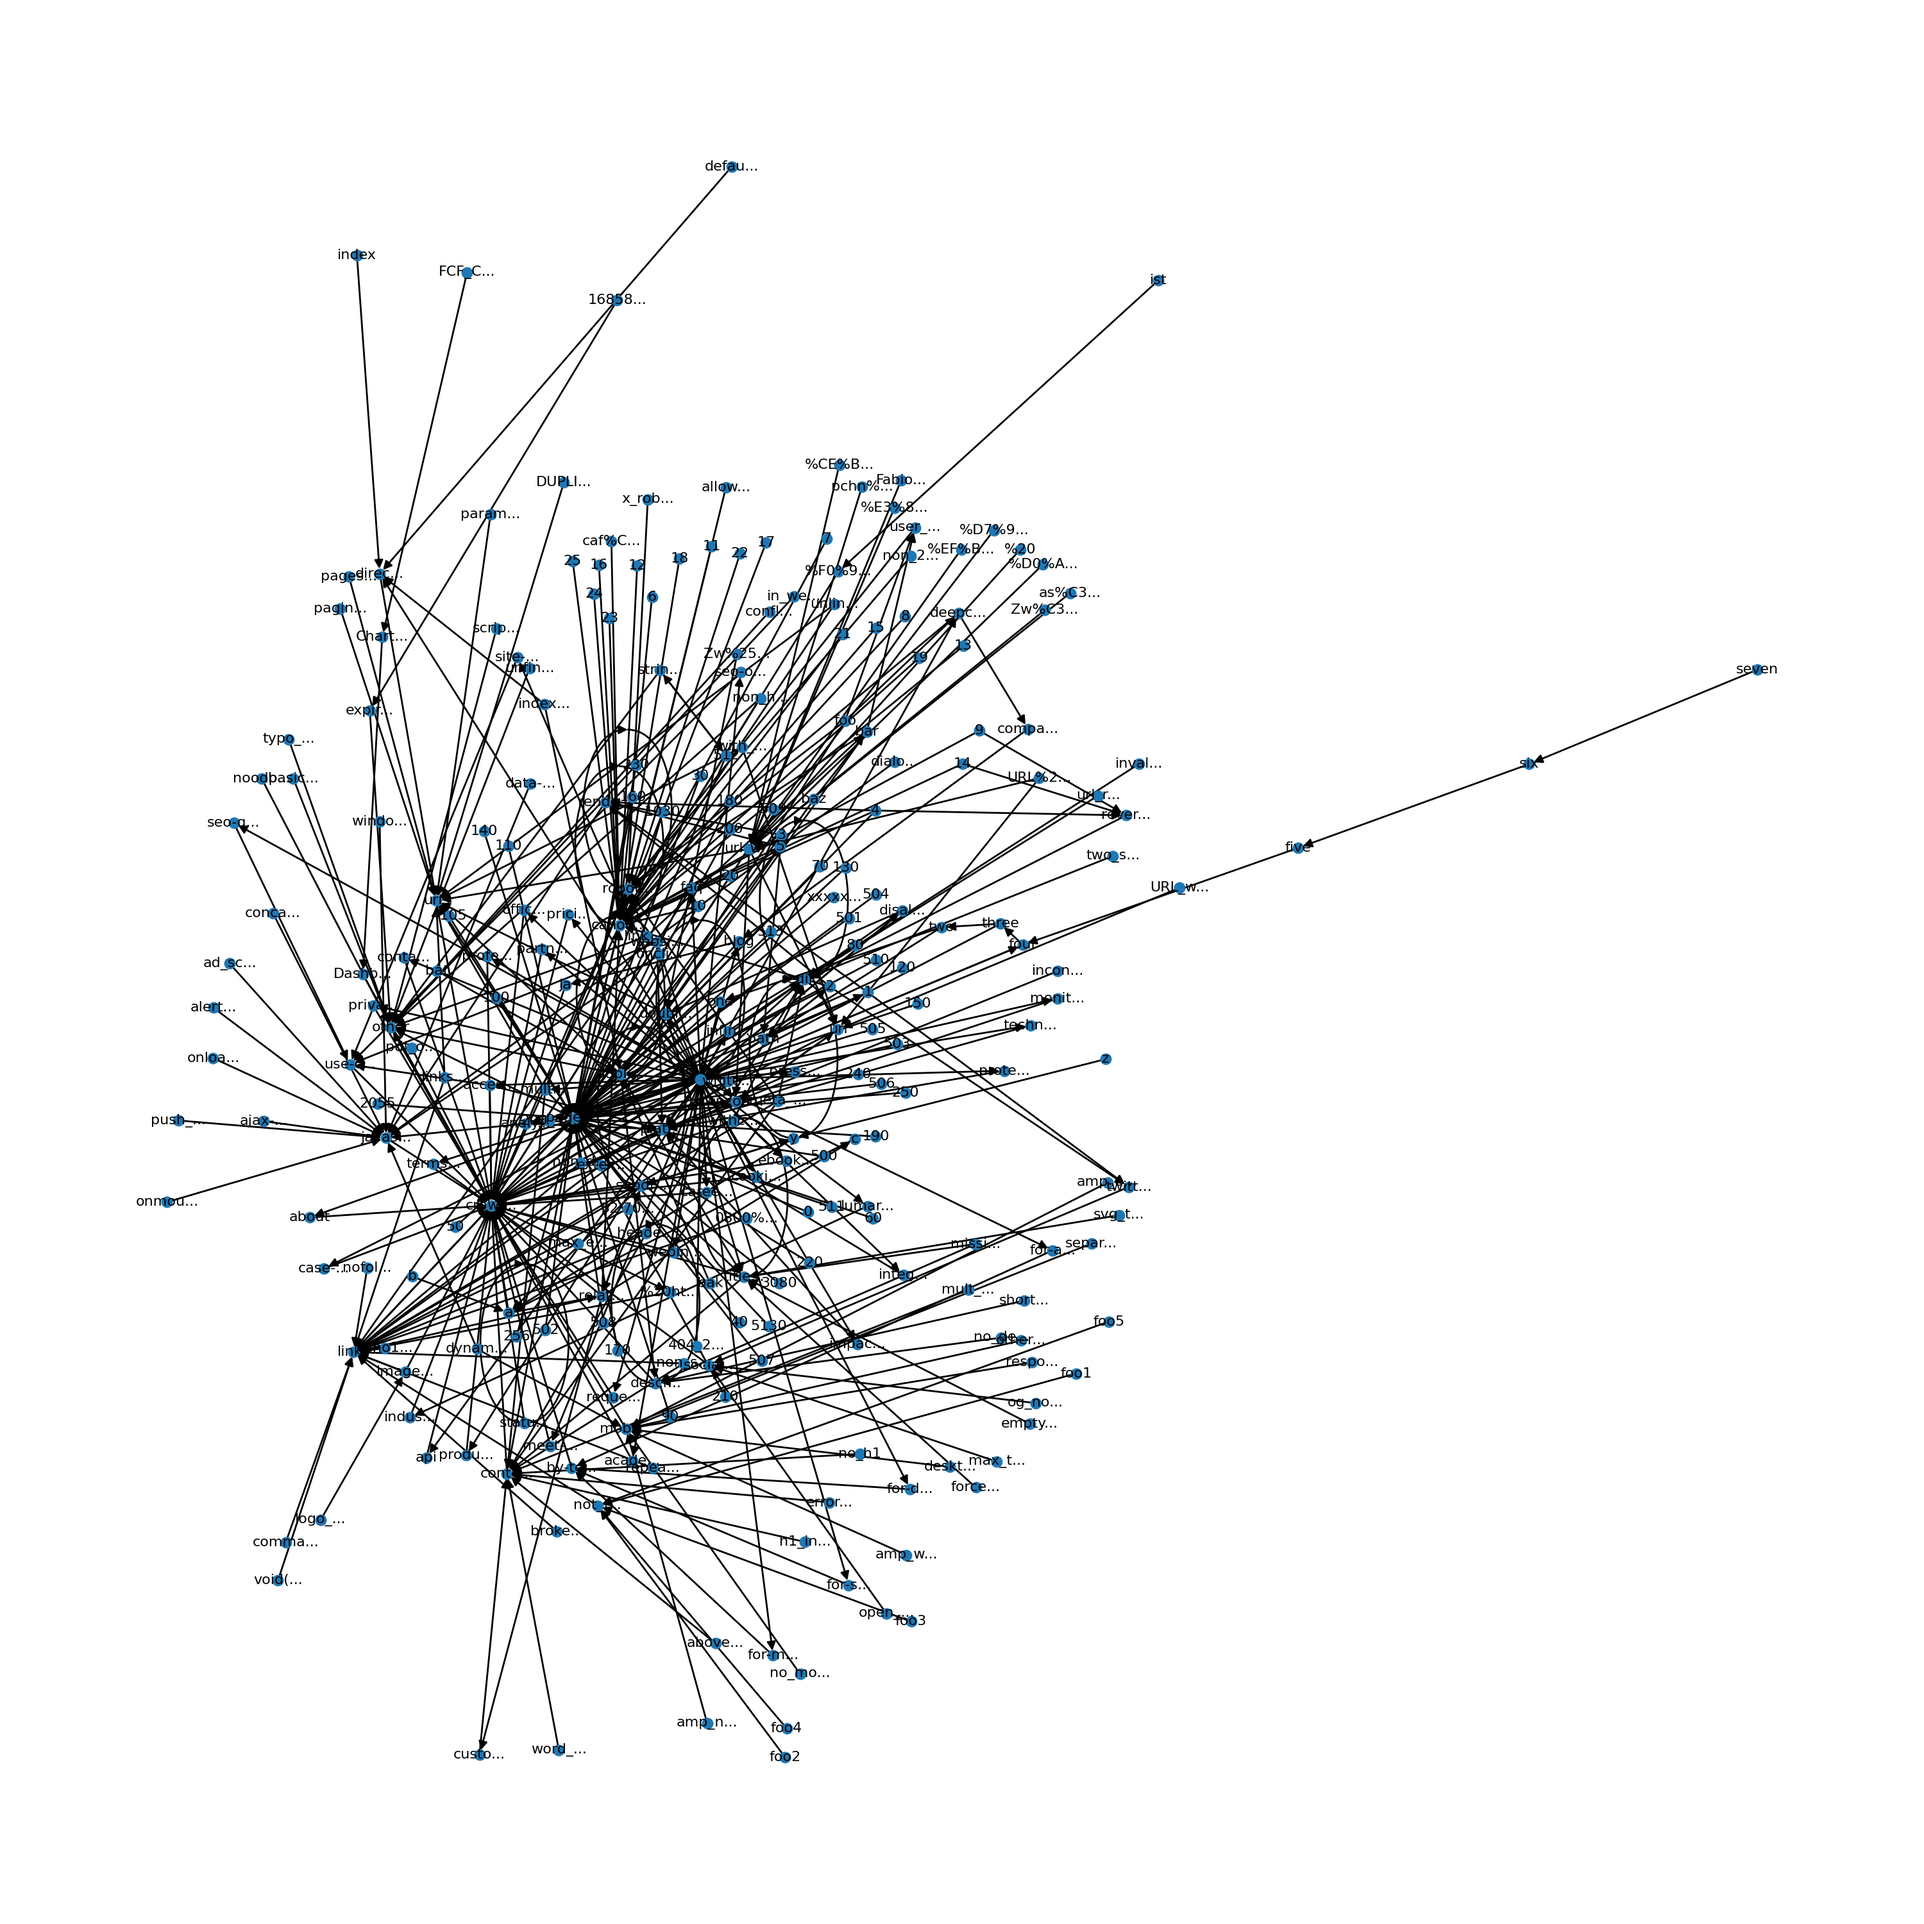
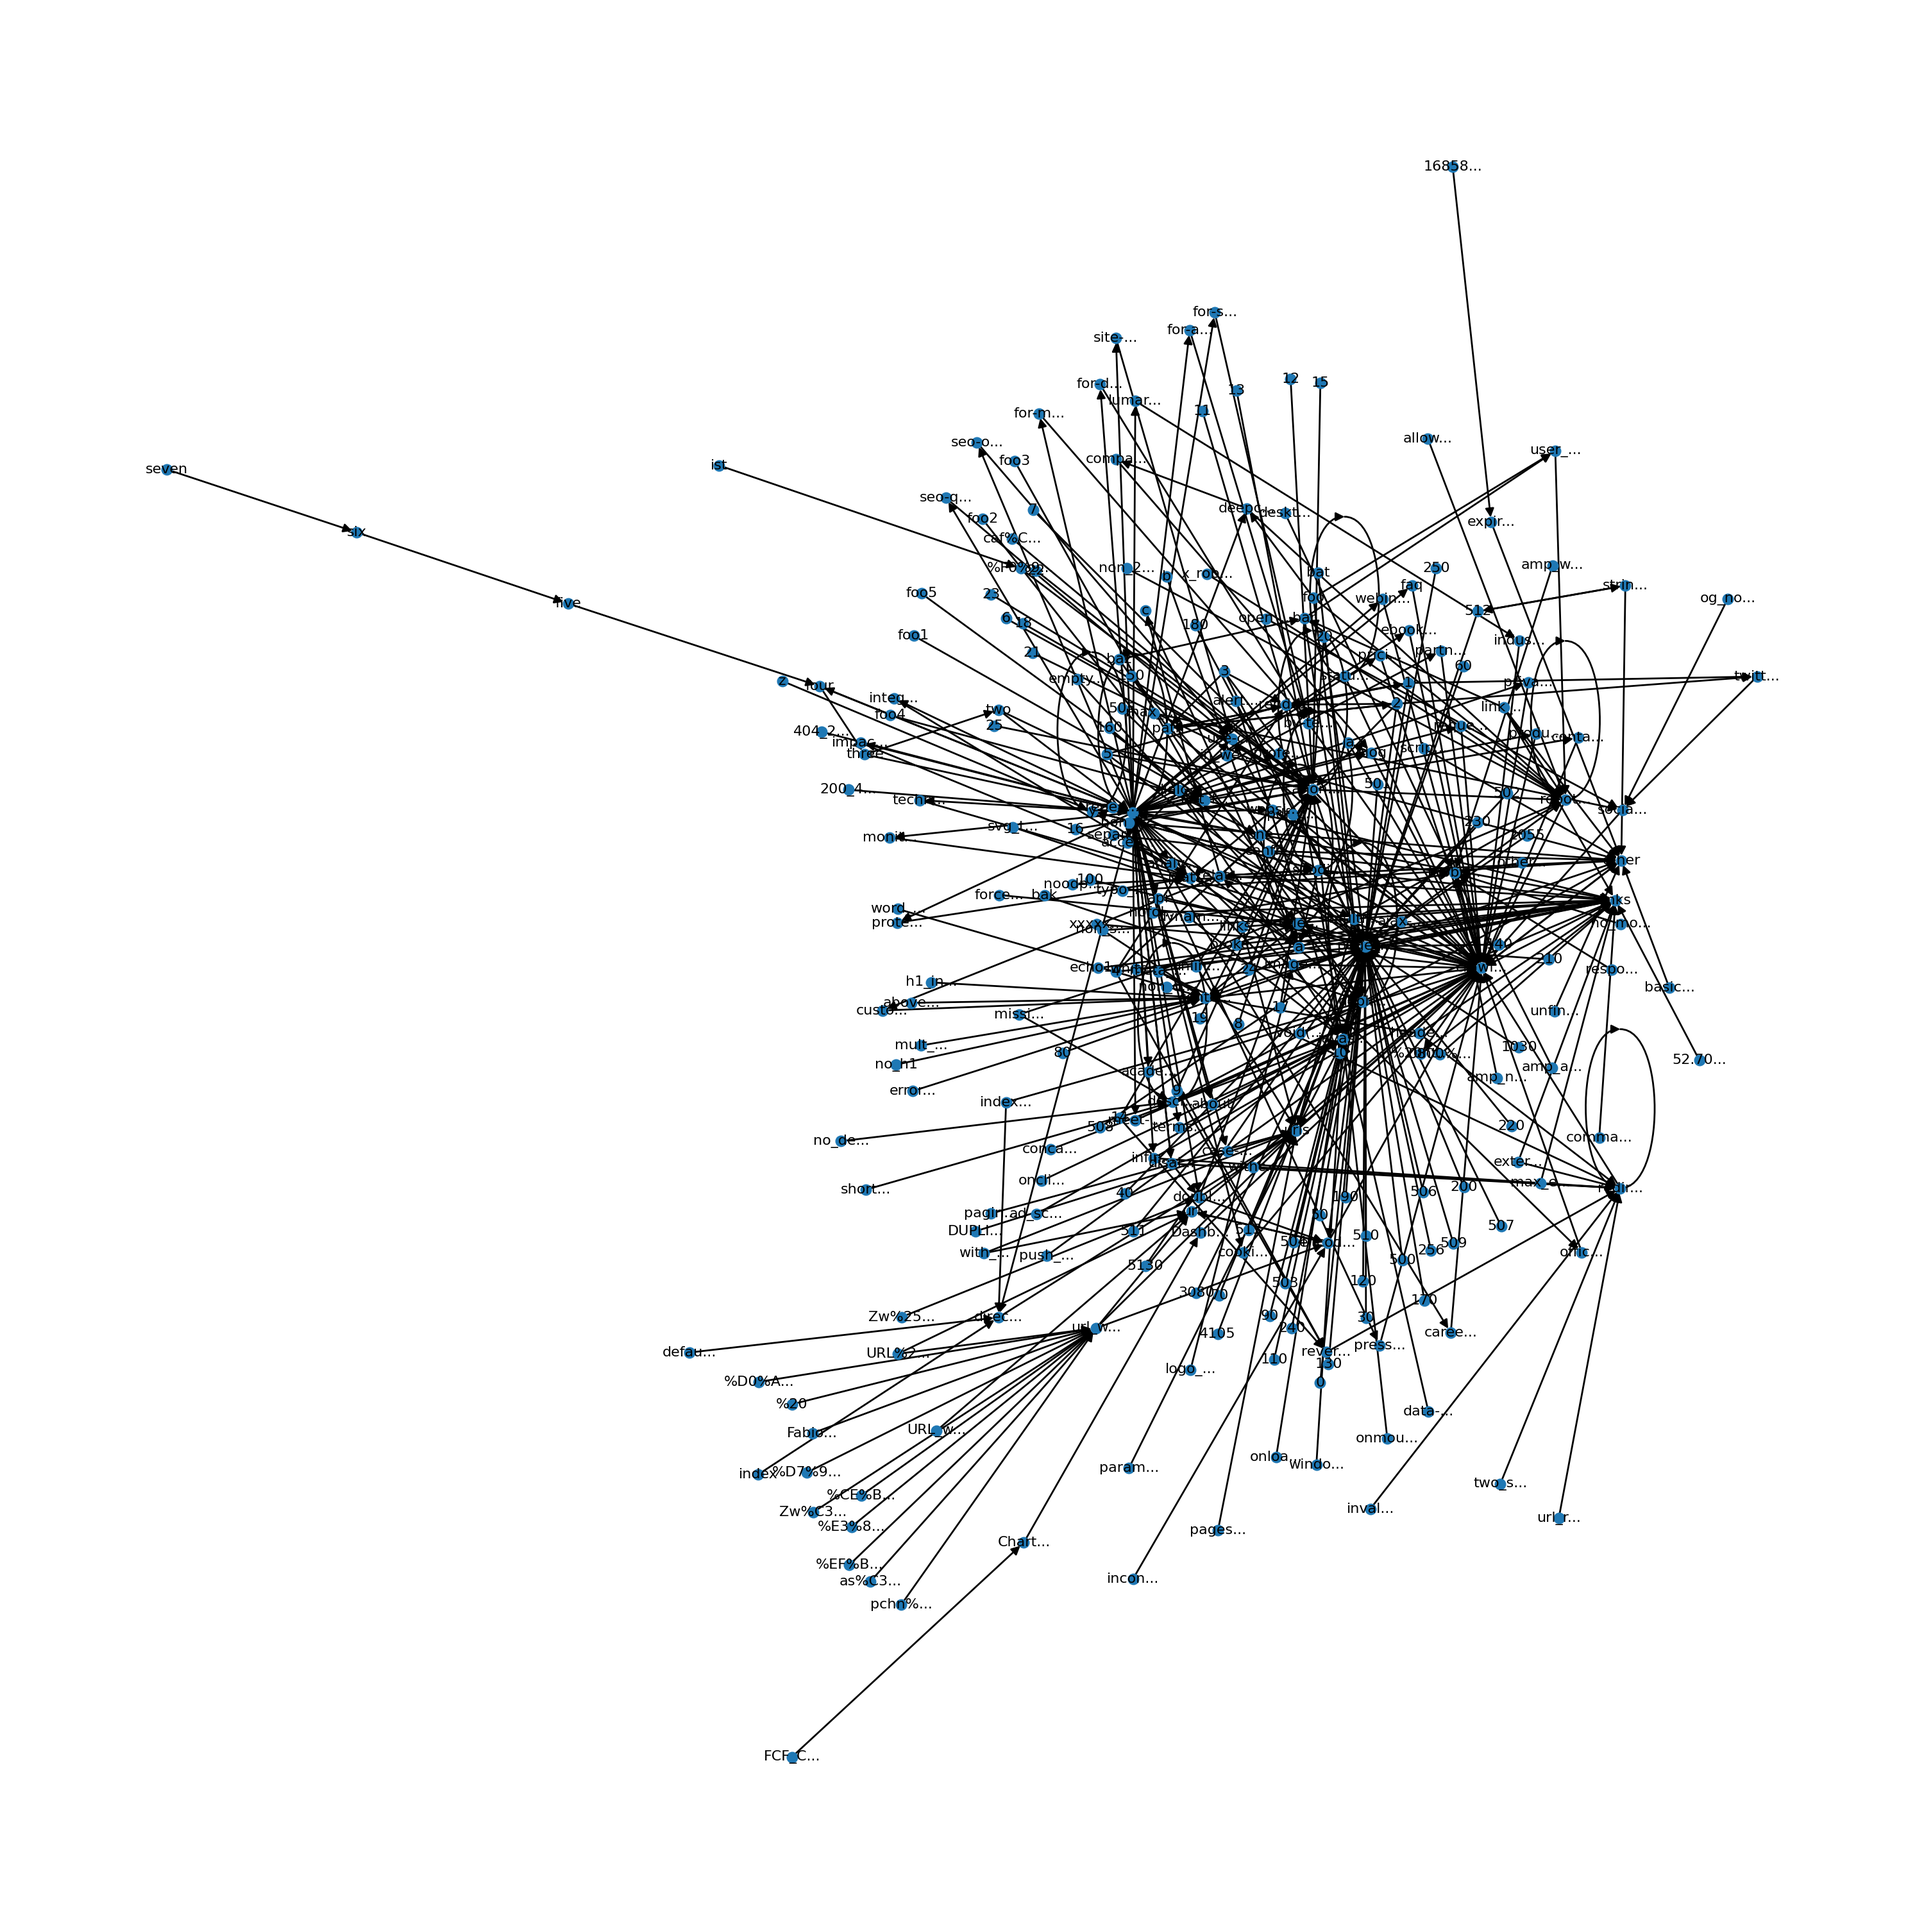
add some fix and max_url for crawler

diff --git a/crawlers.py b/crawlers.py
@@ -3,23 +3,26 @@ import time
 from http.client import RemoteDisconnected
 from urllib.error import URLError
 from urllib.request import urlopen
-from urllib.parse import urlparse, quote, urljoin
+from urllib.parse import urlparse, quote, urljoin, urldefrag
 from urllib.request import Request
 import threading
 
 import lxml
+from lxml import cssselect
 from lxml.html.soupparser import fromstring
 
 
 class RunCrawler(threading.Thread):
 
-    def __init__(self, url: str):
+    def __init__(self, url: str, max_urls=5000):
         super().__init__()
         self.InitialURL = url
         self.url_queue = list()
         self.checked_url = set()
+        self.active_urls = set()
         self.checked_url_tree = {}
         self.start_thread_count = len(threading.enumerate())
+        self.max_urls = max_urls
 
         self.run_ini = time.time()
         self.run_end = None
@@ -43,9 +46,11 @@ class RunCrawler(threading.Thread):
     def run(self):
         while threading.active_count() > self.start_thread_count:
             for index, cur_url in self.url_queue_generator():
-                Crawler(index, cur_url, self)
-                print('Threads: ', len(threading.enumerate()) - self.start_thread_count,
-                      ' Queue: ', len(self.url_queue), ' Checked: ', len(self.checked_url))
+                if threading.active_count() < 300:
+                    Crawler(index, cur_url, self)
+                    self.active_urls.add(cur_url)
+                    print('Threads: ', len(threading.enumerate()) - self.start_thread_count,
+                          ' Queue: ', len(self.url_queue), ' Checked: ', len(self.checked_url))
 
             print("Waiting pls, some threads are still working")
             time.sleep(2)
@@ -71,7 +76,9 @@ class RunCrawler(threading.Thread):
             url_dict = url_dict[key]
 
     def check_url(self, url: str) -> None:
-        if url not in self.url_queue and url not in self.checked_url and self.InitialURL in url:
+        if (url not in self.url_queue) and (url not in self.checked_url) and (self.InitialURL in url)\
+                and (url not in self.active_urls) and (len(self.url_queue) < self.max_urls // 2)\
+                and (len(self.checked_url) < self.max_urls // 2):
             quote_url = quote(url, safe=string.printable).replace(" ", "%20")
             self.url_queue.append(quote_url)
             self.add_url_to_tree(quote_url)
@@ -104,19 +111,22 @@ class RunCrawler(threading.Thread):
         return urljoin(src_new_path, url_new_path)
 
     def parse_thread(self, url: str, data: lxml.html) -> None:
-        temp_links = data.xpath('//a')
+        select = cssselect.CSSSelector("a")
 
-        for temp_index, temp_link in enumerate(temp_links):
-            temp_attrs = temp_link.attrib
+        temp_links = [el.get('href') for el in select(data)]
+        temp_links = temp_links[:1000]
 
-            if 'href' in temp_attrs:
-                temp_url = temp_attrs.get('href')
-                temp_src = url
+        for temp_link in temp_links:
 
-                path = self.join_url(temp_src, temp_url)
+            path = self.join_url(url, temp_link)
 
-                if path:
-                    self.check_url(path)
+            if path:
+                self.check_url(path)
+
+        try:
+            self.active_urls.remove(url)
+        except Exception:
+            pass
 
     def get_info(self) -> list:
         return [self.InitialURL, self.run_dif, len(self.checked_url)]
@@ -152,6 +162,8 @@ class Crawler(threading.Thread):
     def run(self):
 
         try:
+            print("processing: ", self.crawl_url)
+            self.crawl_url, frag = urldefrag(self.crawl_url)
             url = quote(self.crawl_url, safe=string.printable).replace(" ", "%20")
             temp_req = Request(url, headers=self.request_headers)
             temp_res = urlopen(temp_req)
@@ -170,8 +182,8 @@ class Crawler(threading.Thread):
                 except (RuntimeError, TypeError, NameError, ValueError):
                     print('Content could not be parsed.')
 
-        except URLError:
-            print('URLError: ', self.crawl_url)
+        except URLError as e:
+            print('URLError: ', self.crawl_url, e)
 
         except RemoteDisconnected:
             print("RemoteDisconnect on this url: ", self.crawl_url)

diff --git a/main_generator.py b/main_generator.py
@@ -1,3 +1,4 @@
+import time
 from datetime import date
 
 from prettytable import PrettyTable
@@ -8,20 +9,25 @@ from db_connect import MyDbPostgreSql
 from sitemap_visualizer import VisualizerSitemap
 
 if __name__ == "__main__":
-    my_db = MyDbPostgreSql(password="", db_name="postgres")
+    my_db = MyDbPostgreSql(password="68305eetR_1", db_name="postgres")
     my_db.create_table('sitemaps',
                        '(id SERIAL PRIMARY KEY, site_url TEXT,'
                        ' processing_time_ms INT, checked_urls INT,'
                        ' result_filename TEXT, time_created TEXT)')
 
-    urls = ['https://crawler-test.com/']
+    urls = ['http://crawler-test.com/', 'https://google.com/',
+            'https://vk.com/', 'https://dzen.ru/', 'https://stackoverflow.com/']
 
     info_table = PrettyTable()
     info_table.field_names = ['URL сайта', 'Время обработки', 'Кол-во ссылок', "Имя файла с картой"]
 
     for InitialURL in urls:
 
-        main_crawler = RunCrawler(InitialURL)
+        print("Generate sitemap for " + InitialURL + '\n\n')
+
+        time.sleep(1)
+
+        main_crawler = RunCrawler(InitialURL, max_urls=1000)
         dataset = main_crawler.get_dataset()
         info = main_crawler.get_info()
         filename = InitialURL.split('/')[2]
@@ -39,6 +45,8 @@ if __name__ == "__main__":
 
         sitemap_visual = VisualizerSitemap(filename=filename + ".png")
         sitemap_visual.start_visualizer(dataset)
+
+        print('\n')
 
     print(info_table)
 
